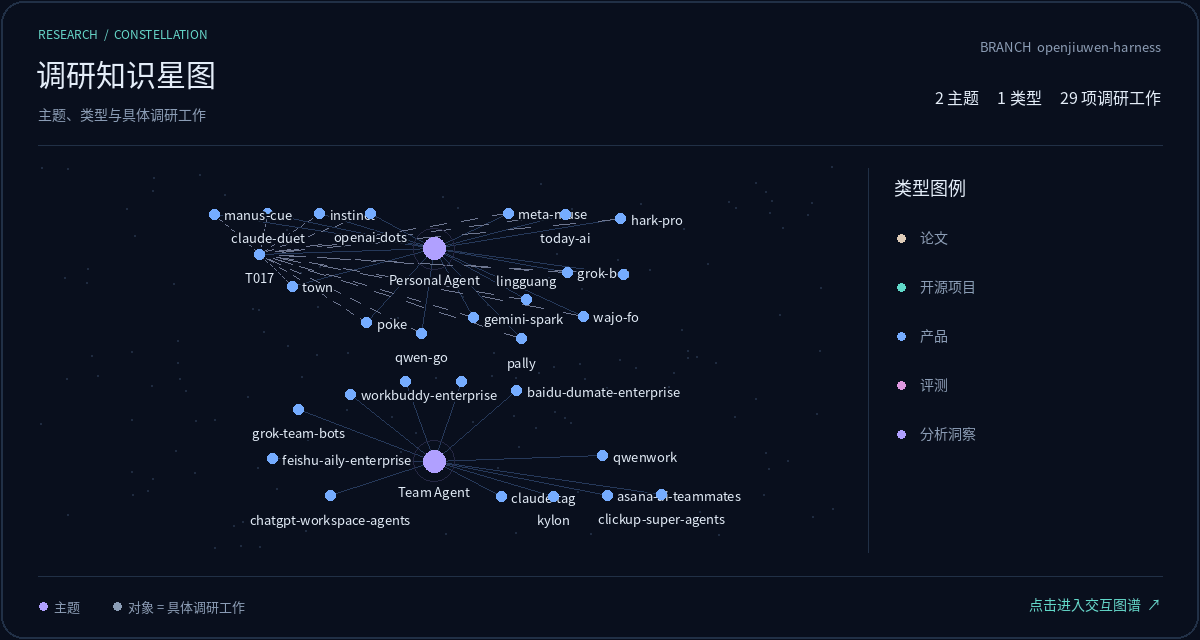
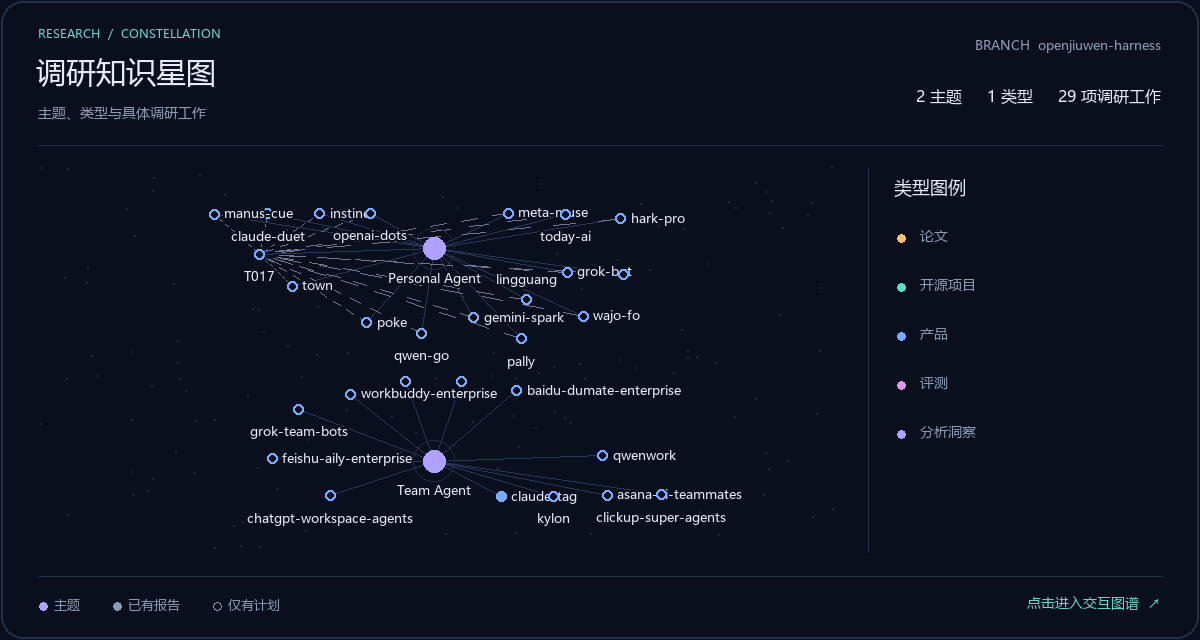
在调研图谱中区分已有报告和仅有计划

diff --git a/docs/research-graph/app.js b/docs/research-graph/app.js
@@ -11,6 +11,9 @@
   const canvas = $("graph"), ctx = canvas.getContext("2d"), container = $("map");
   const byId = new Map(data.nodes.map(n => [n.id, n]));
   const kindNames = {theme: "主题", object: "调研工作"};
+  const reportLabels = {reported: "已有报告", planned: "仅有计划"};
+  const reportState = n => n.kind === "object" ? (n.reportIds?.length ? "reported" : "planned") : null;
+  const filters = ["theme-filter", "type-filter", "report-filter"];
   const displayLabel = node => node.displayLabel || node.taskId || node.label;
   const relationNames = {includes: "关联", depends: "依赖"};
   const reportById = new Map(data.reports.map(r => [r.id, r]));
@@ -82,10 +85,11 @@
 
   function applyFilters() {
     const query = $("search").value.trim().toLocaleLowerCase();
-    const theme = $("theme-filter").value, type = $("type-filter").value;
+    const [theme, type, report] = filters.map(id => $(id).value);
     const matched = data.nodes.filter(n => {
       if (theme !== "all" && !(n.themes || [n.theme]).includes(theme)) return false;
       if (type !== "all" && n.type !== type) return false;
+      if (report !== "all" && reportState(n) !== report) return false;
       return !query || `${displayLabel(n)} ${n.label} ${n.target || ""} ${n.path} ${n.taskId || ""}`.toLocaleLowerCase().includes(query);
     });
     const ids = new Set(matched.map(n => n.id));
@@ -108,9 +112,11 @@
       const button = element("button", "result");
       button.dataset.nodeId = n.id;
       button.setAttribute("aria-pressed", String(n.id === selected));
-      const swatch = element("span", "swatch");
-      swatch.style.backgroundColor = n.color;
-      button.append(swatch, element("span", "result-label", displayLabel(n)), element("span", "result-kind", kindNames[n.kind]));
+      const state = reportState(n);
+      const swatch = element("span", state === "planned" ? "swatch planned-symbol" : "swatch");
+      swatch.style.color = n.color;
+      button.append(swatch, element("span", "result-label", displayLabel(n)),
+        element("span", "result-kind", reportLabels[state] || kindNames[n.kind]));
       button.title = displayLabel(n);
       button.addEventListener("click", () => select(n.id));
       $("results").append(button);
@@ -119,7 +125,7 @@
   }
   function clearFilters() {
     $("search").value = "";
-    for (const id of ["theme-filter", "type-filter"]) $(id).value = "all";
+    for (const id of filters) $(id).value = "all";
     applyFilters();
   }
   function select(id) {
@@ -148,6 +154,8 @@
     detail.append(element("h2", "", n.label));
     const badges = element("div", "detail-badges");
     for (const label of [data.types[n.type] || kindNames[n.kind]].filter(Boolean)) badges.append(element("span", "badge", label));
+    const state = reportState(n);
+    if (state) badges.append(element("span", "badge report-state", reportLabels[state]));
     if (n.target) detail.append(element("p", "", n.target));
     const openLabel = n.inferredFromDirectory ? "打开相关资料 ↗" : n.kind === "theme" || n.sourceKind === "plan" ? "打开主题计划 ↗" : "打开调研报告 ↗";
     detail.append(badges, element("div", "path", n.path), link(openLabel, n.url, "open-link"));
@@ -248,9 +256,15 @@
       if (n.id === focus) {
         ctx.strokeStyle = n.color; ctx.lineWidth = 1; ctx.beginPath(); ctx.arc(p.x, p.y, r + 7, 0, Math.PI * 2); ctx.stroke();
       }
-      ctx.fillStyle = n.color; ctx.strokeStyle = n.color; ctx.lineWidth = 1.8;
+      const planned = reportState(n) === "planned";
+      ctx.fillStyle = planned ? "#0d1728" : n.color;
       ctx.beginPath(); ctx.arc(p.x, p.y, r, 0, Math.PI * 2);
       ctx.fill();
+      if (planned) {
+        ctx.strokeStyle = n.color;
+        ctx.lineWidth = 1.8;
+        ctx.stroke();
+      }
       if (!active || (visible.length > 35 && n.kind !== "theme" && n.id !== focus && camera.zoom < 1.7)) continue;
       let label = displayLabel(n);
       if (label.length > 26 && n.id !== focus) label = label.slice(0, 25) + "…";
@@ -304,7 +318,8 @@
     canvas.style.cursor = n ? "pointer" : "grab";
     $("tooltip").hidden = !n;
     if (n) {
-      $("tooltip").textContent = displayLabel(n);
+      const state = reportState(n);
+      $("tooltip").textContent = state ? `${displayLabel(n)}\n${reportLabels[state]}` : displayLabel(n);
       $("tooltip").style.left = `${Math.max(8, Math.min(width - 265, p.x + 14))}px`;
       $("tooltip").style.top = `${Math.max(8, Math.min(height - 85, p.y + 14))}px`;
     }
@@ -352,7 +367,7 @@
     }
   });
   $("search").addEventListener("input", applyFilters);
-  for (const id of ["theme-filter", "type-filter"]) $(id).addEventListener("change", applyFilters);
+  for (const id of filters) $(id).addEventListener("change", applyFilters);
   $("clear-filters").addEventListener("click", clearFilters);
   new ResizeObserver(resize).observe(container);
   new IntersectionObserver(entries => { inViewport = entries[0].isIntersecting; lastTime = 0; if (inViewport) requestDraw(); }).observe(container);

diff --git a/docs/research-graph/style.css b/docs/research-graph/style.css
@@ -7,4 +7,7 @@ main{max-width:1680px;margin:0 auto;padding:0 4%}.intro{display:flex;justify-con
 .detail-panel{padding:20px;display:flex;flex-direction:column;max-height:660px}.panel-heading{display:flex;justify-content:space-between;align-items:center;color:var(--muted);font-size:10px;letter-spacing:1px;margin-bottom:20px}.small-mark{color:var(--mint)}.detail-panel h2{font-size:17px;font-weight:500;line-height:1.65;margin:0 0 11px;overflow-wrap:anywhere}.detail-panel p{font-size:12px;line-height:1.8;color:var(--muted);margin:0 0 14px}.detail-badges{display:flex;gap:6px;flex-wrap:wrap;margin-bottom:14px}.badge{font-size:10px;border:1px solid var(--line);background:#172339;padding:4px 8px;border-radius:20px}.path{font:10px/1.8 monospace;color:#7d94b2;overflow-wrap:anywhere;background:#101c2e;padding:9px;border-radius:6px;margin:10px 0}.open-link{display:block;padding:10px 14px;background:#173832;border:1px solid #28564d;border-radius:7px;font-size:12px;color:#99f2df;text-align:center}.detail-links{margin:10px 0;padding:0;list-style:none;font-size:11px;line-height:1.8}.detail-links li{margin-top:5px;overflow-wrap:anywhere}.detail-links .relation{color:var(--muted);margin-right:5px}.results-heading{display:flex;align-items:center;justify-content:space-between;border-top:1px solid var(--line);margin-top:20px;padding-top:17px}.results-heading h2{font-size:11px;margin:0;color:var(--muted)}.results-heading>span{font-size:10px;color:var(--muted)}.results{overflow-y:auto;min-height:110px;margin-top:9px;scrollbar-width:thin;scrollbar-color:#2e435f transparent}.result{display:flex;align-items:center;gap:9px;width:100%;text-align:left;padding:9px 7px;margin-bottom:3px;border:1px solid transparent;background:transparent;border-radius:6px;font-size:11px;line-height:1.5}.result .swatch{height:6px;width:6px;border-radius:50%;flex-shrink:0}.result .result-label{overflow:hidden;text-overflow:ellipsis;white-space:nowrap;min-width:0;flex:1}.result .result-kind{font-size:9px;color:var(--muted);flex-shrink:0}.result[aria-pressed=true]{background:#16243a;border-color:#344c68}.results-empty{font-size:12px;color:var(--muted);padding:15px 0}.edge-note{font-size:10px;color:#7e94af;line-height:1.6;margin:10px 0 0}footer{display:flex;justify-content:space-between;gap:15px;padding:20px 2px 28px;color:#6f829f;font-size:10px;line-height:1.8}footer a{color:#94b8c7;margin-left:5px}.noscript{padding:30px;text-align:center;color:var(--muted)}
 @media(min-width:1450px){.map{height:590px}.detail-panel{max-height:720px}}@media(max-width:1100px){.intro{align-items:flex-start}.stats{gap:17px}.workspace{grid-template-columns:minmax(0,1fr) 275px}.toolbar{align-items:stretch}.search-box{max-width:none}.filter-row{width:100%}.filter-row select{flex:1;max-width:none}.map{height:500px}.detail-panel{max-height:680px}}@media(max-width:760px){.masthead{height:63px}.brand-sub,.header-right>.live-dot,.header-right>span:last-child{display:none}.brand{font-size:12px;gap:6px}.branch{font-size:9px;padding:6px 8px;max-width:145px;overflow:hidden;text-overflow:ellipsis}.intro{display:block;padding:30px 0 24px}.intro p{font-size:11px}.stats{margin-top:25px;gap:30px}.stat strong{font-size:25px}.stat span{font-size:10px}.workspace{grid-template-columns:1fr}.map{height:440px}.detail-panel{max-height:none}.results{max-height:240px}.legend{gap:12px}.dependency-key{display:none!important}footer{flex-direction:column;gap:4px}.detail-panel{padding:18px}.results-heading{margin-top:16px}h1{font-size:23px}}
 .type-legend{display:flex;gap:12px;flex-wrap:wrap}.type-legend span{display:flex;align-items:center;gap:5px}.empty{font-size:13px;line-height:1.9;padding:50px;max-width:600px;margin:auto}
+.legend .work-symbol{width:8px;height:8px;color:#9aaac6;background:currentColor}
+.result .swatch{width:8px;height:8px;background:currentColor}
+.legend .planned-symbol,.result .planned-symbol{background:none;border:1.5px solid currentColor}
 @media(prefers-reduced-motion:reduce){*,*::before,*::after{scroll-behavior:auto!important;animation:none!important;transition:none!important}}

diff --git a/docs/research-graph/index.html b/docs/research-graph/index.html
@@ -28,6 +28,11 @@
           <div class="filter-row">
             <select id="theme-filter" aria-label="按主题筛选"><option value="all">全部主题</option></select>
             <select id="type-filter" aria-label="按对象类型筛选"><option value="all">全部类型</option></select>
+            <select id="report-filter" aria-label="按报告情况筛选">
+              <option value="all">报告情况</option>
+              <option value="reported">已有报告</option>
+              <option value="planned">仅有计划</option>
+            </select>
           </div>
         </div>
         <div class="map" id="map">
@@ -43,7 +48,13 @@
           <div id="tooltip" class="tooltip" role="tooltip" hidden></div>
           <div class="map-help">拖动节点或画布 · 滚轮缩放 · 点击查看详情</div>
         </div>
-        <div class="legend"><span><i class="theme-symbol"></i>主题</span><span><i></i>对象 = 具体调研工作</span><div id="type-legend" class="type-legend"></div><button id="clear-filters" class="text-button">清除筛选</button></div>
+        <div class="legend">
+          <span><i class="theme-symbol"></i>主题</span>
+          <span><i class="work-symbol"></i>已有报告</span>
+          <span><i class="work-symbol planned-symbol"></i>仅有计划</span>
+          <div id="type-legend" class="type-legend"></div>
+          <button id="clear-filters" class="text-button">清除筛选</button>
+        </div>
       </section>
       <aside class="detail-panel" aria-label="节点详情">
         <div class="panel-heading"><span id="detail-eyebrow">探索入口</span><span class="small-mark">↗</span></div>

diff --git a/tests/research_graph_browser.py b/tests/research_graph_browser.py
@@ -55,6 +55,24 @@ def exercise(page, url, expected):
     product_count = sum(n["type"] == "product" for n in expected["nodes"])
     require(page.locator(".result").count() == product_count, "type filter must match exact type")
     page.locator("#clear-filters").click()
+    for value, label in (("reported", "已有报告"), ("planned", "仅有计划")):
+        matches = [n for n in expected["nodes"] if n["kind"] == "object"
+                   and bool(n.get("reportIds")) == (value == "reported")]
+        page.locator("#report-filter").select_option(value)
+        result_ids = page.locator(".result").evaluate_all("items => items.map(item => item.dataset.nodeId)")
+        require(set(result_ids) == {n["id"] for n in matches}, "report filter uses linked reports")
+        if matches:
+            result = page.locator(".result").first
+            require(result.locator(".result-kind").inner_text() == label, "work list shows its report label")
+            require(bool(result.locator(".planned-symbol").count()) == (value == "planned"),
+                    "work list shows the corresponding node symbol")
+            result.click()
+            require(page.locator("#detail .report-state").inner_text() == label, "details show the report label")
+        page.locator("#type-filter").select_option("product")
+        require(page.locator(".result").count() == sum(n["type"] == "product" for n in matches),
+                "report and type filters combine")
+        page.locator("#clear-filters").click()
+        require(page.locator("#report-filter").input_value() == "all", "clear resets the report filter")
     work = next((n for n in expected["nodes"] if n["kind"] == "object"), expected["nodes"][0])
     work_button = page.locator(f'button[data-node-id={json.dumps(work["id"], ensure_ascii=False)}]')
     require(work_button.locator(".result-label").inner_text() == work["displayLabel"],
@@ -136,6 +154,10 @@ def main():
                 first_id = phone.locator(".result").first.get_attribute("data-node-id")
                 phone.locator(".result").first.click()
                 require(phone.locator("#detail h2").inner_text() == next(n for n in expected["nodes"] if n["id"] == first_id)["label"], "mobile node list works")
+                phone.locator("#report-filter").select_option("reported")
+                require(phone.locator(".result").count() == sum(n["kind"] == "object" and bool(n.get("reportIds")) for n in expected["nodes"]),
+                        "mobile report filter works")
+                phone.locator("#clear-filters").click()
             else:
                 require(phone.locator("#empty").is_visible(), "mobile empty state is visible")
             phone.screenshot(path=str(OUTPUT / "mobile.png"), full_page=True)
@@ -145,7 +167,7 @@ def main():
                 fixture_root = Path(fixture_dir)
                 plan_path = fixture_root / "evaluation" / "plan.md"
                 plan_path.parent.mkdir(parents=True)
-                plan_path.write_text('---\ntheme_id: evaluation\ntitle: 评估方法\n---\n# 评估方法\n## 对象与任务\n| ID | 类型／对象 | 本次目标 | 前置任务 | 状态 |\n| --- | --- | --- | --- | --- |\n| T001 | product／工具甲 | 分析工具甲 | 无 | planned |\n| T002 | paper／方法乙 | 分析方法乙 | T001 | planned |\n', encoding="utf-8")
+                plan_path.write_text('---\ntheme_id: evaluation\ntitle: 评估方法\n---\n# 评估方法\n## 对象与任务\n| ID | 类型／对象 | 本次目标 | 前置任务 | 状态 |\n| --- | --- | --- | --- | --- |\n| T001 | product／工具甲 | 分析工具甲 | 无 | planned |\n| T002 | paper／方法乙 | 分析方法乙 | T001 | done |\n', encoding="utf-8")
                 plan_path.write_text(plan_path.read_text(encoding="utf-8") + '\n## 成果索引\n\nT001：[主报告](product/tool/report.md)\n', encoding="utf-8")
                 report_root = fixture_root / "evaluation/product/tool"
                 report_root.mkdir(parents=True)

diff --git a/scripts/research_graph_preview.py b/scripts/research_graph_preview.py
@@ -78,10 +78,8 @@ def render_preview(graph, output: Path):
         draw.text((330, 315), "暂无调研工作", font=fonts[20], fill=TEXT)
         draw.text((177, 360), "新增调研计划或报告并纳入 Git 后，这里会自动更新。", font=fonts[14], fill=MUTED)
     draw.line((38, 576, WIDTH - 38, 576), fill=(33, 48, 70))
-    for x, kind, label in [(43, "theme", "主题"), (117, "object", "对象 = 具体调研工作")]:
-        radius = 4 if kind != "small" else 2
-        shape = (x - radius, 606 - radius, x + radius, 606 + radius)
-        draw.ellipse(shape, fill=(176, 160, 255) if kind == "theme" else MUTED)
+    for x, fill, label in [(43, (176, 160, 255), "主题"), (117, MUTED, "已有报告"), (217, None, "仅有计划")]:
+        draw.ellipse((x - 4, 602, x + 4, 610), fill=fill, outline=MUTED if fill is None else None)
         draw.text((x + 11, 596), label, font=fonts[13], fill=MUTED)
     caption = "点击进入交互图谱  ↗"
     draw.text((WIDTH - 39 - fonts[14].getlength(caption), 593), caption, font=fonts[14], fill=(101, 216, 201))
@@ -126,7 +124,9 @@ def render_preview(graph, output: Path):
                 pulse = (1 + math.sin(phase)) / 2
                 halo = radius + 7 + pulse * 5
                 pen.ellipse((x - halo, y - halo, x + halo, y + halo), outline=blend(color, 0.12 + pulse * 0.1))
-            pen.ellipse((x - radius, y - radius, x + radius, y + radius), fill=color)
+            planned = n["kind"] == "object" and not n.get("reportIds")
+            pen.ellipse((x - radius, y - radius, x + radius, y + radius),
+                        fill=BG if planned else color, outline=color, width=2 if planned else 1)
             display_label = n.get("displayLabel") or n.get("taskId") or n["label"]
             if n["kind"] == "theme":
                 label = fit(display_label, fonts[13], 240)

diff --git a/docs/research-graph-guide.md b/docs/research-graph-guide.md
@@ -5,6 +5,7 @@
 ## 展示口径
 
 - 主题与具体调研工作是节点；类型以颜色、标签和筛选体现。
+- 调研工作用实心圆标记「已有报告」，用空心圆标记「仅有计划」。可以按报告情况筛选，在节点列表和详情中也能看到这项标记。
 - 节点只显示主题名称或调研对象 ID。旧计划缺少对象 ID 时显示任务编号。独立报告优先采用唯一对象 ID，其次采用报告专题标识。点击节点可查看任务目标、报告和相关链接。
 - 主题连接其关联工作；计划明确记录的工作依赖可以连接两项工作。
 - 同一个工作编号在同一主题中保持稳定，不随标题变化而产生新节点。
@@ -28,7 +29,7 @@
 
 采用简短开头的新格式报告需要同时跟踪 Markdown 和同名 `.meta.json`。缺少后者时图谱停止生成并提示路径，防止报告 ID 或关联丢失。
 
-有局部复查记录的报告按其复查范围显示状态，图谱详情的报告链接旁会标注。旧报告的开头可在下次维护时用 `sync-report-note` 更新，图谱可以先按已有元数据区分复查状态。计划任务状态仍取自计划表，表示该任务自身的完成情况。
+「已有报告」依据工作实际关联的报告，包括独立报告和处于局部复查的报告。报告链接旁继续标注复查范围。旧报告的开头可在下次维护时用 `sync-report-note` 更新。计划任务状态仍取自计划表，表示该任务自身的完成情况。
 
 支持的类型为 `paper`、`open-source`、`product`、`benchmark`、`analysis`，其中 analysis 显示为“分析洞察”，对应基于已有调研的主题／问题分析报告。计划中的工作类型由“类型／对象”字段确定；独立报告的工作类型来自其目录。类型作为工作属性，不单独插入一层分类节点。
 
@@ -64,7 +65,7 @@ python scripts/research_graph.py
 
 生成器默认使用当前检出的 Git 分支。所有生成的仓库资料链接都指向该分支。Linux 需安装 `fonts-noto-cjk`；Windows 默认使用微软雅黑，也可用 `GRAPH_FONT` 指定本地中文字体。交互页不依赖 CDN、接口或在线字体，遵循系统减少动态效果设置，并提供暂停按钮。
 
-README 的 `research-graph:start` 与 `research-graph:end` 之间由脚本维护，其他内容保留。预览最多展示 85 个真实节点并标注抽样数量，统计与交互页保留完整数据。预览沿用交互图谱的节点标签，密集图按空间减少标签。输入不变时布局和生成数据不变。不同操作系统的字体可能使远程重建的图片有差异。
+README 的 `research-graph:start` 与 `research-graph:end` 之间由脚本维护，其他内容保留。预览最多展示 85 个真实节点并标注抽样数量，统计与交互页保留完整数据。预览沿用交互图谱的节点标签和报告标记，密集图按空间减少标签。输入不变时布局和生成数据不变。不同操作系统的字体可能使远程重建的图片有差异。
 
 主题状态直接读取计划元数据，不用报告完整度推断。下一步读取任务表的「缺口与下一步」列，也兼容旧计划中含「下一步」的章节及其子章节中的表格行动列、正文和列表。按原文顺序汇总去重，未记录时标为「未记录」。无计划的主题标为“尚未建立”，不把报告链接冒充计划链接。同一主题中共用的报告只列一次。主题以当前计划为入口；当前计划声明为已归档的主题仍保留在总览中，该状态不要求另存计划副本。
 
